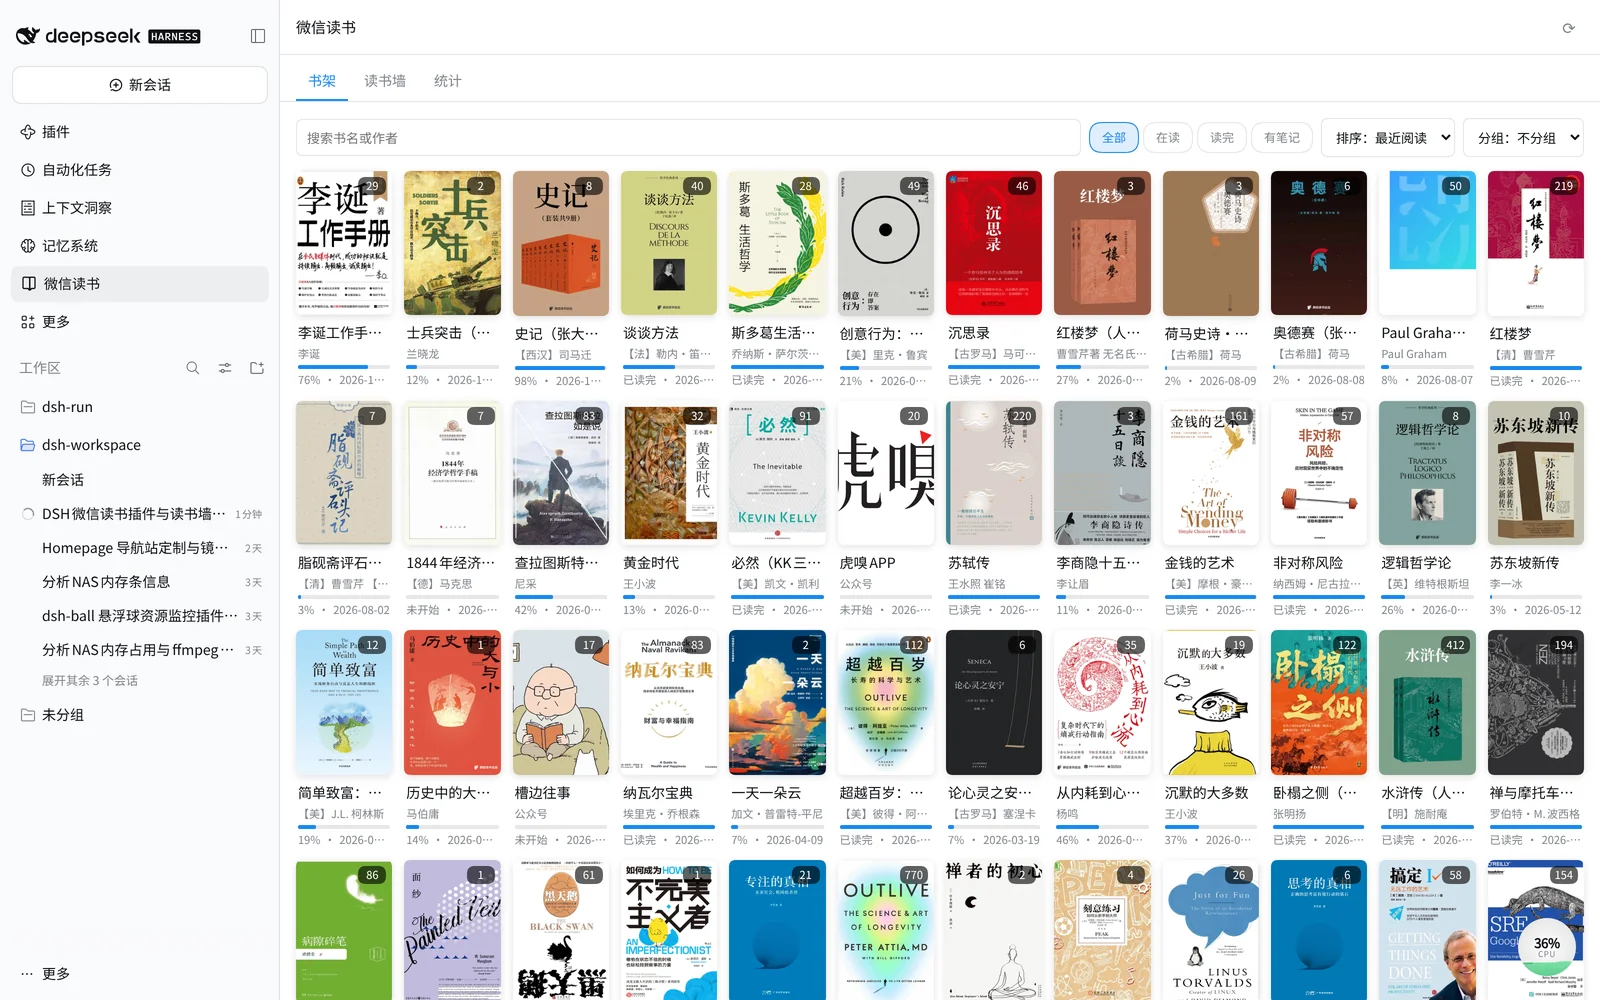
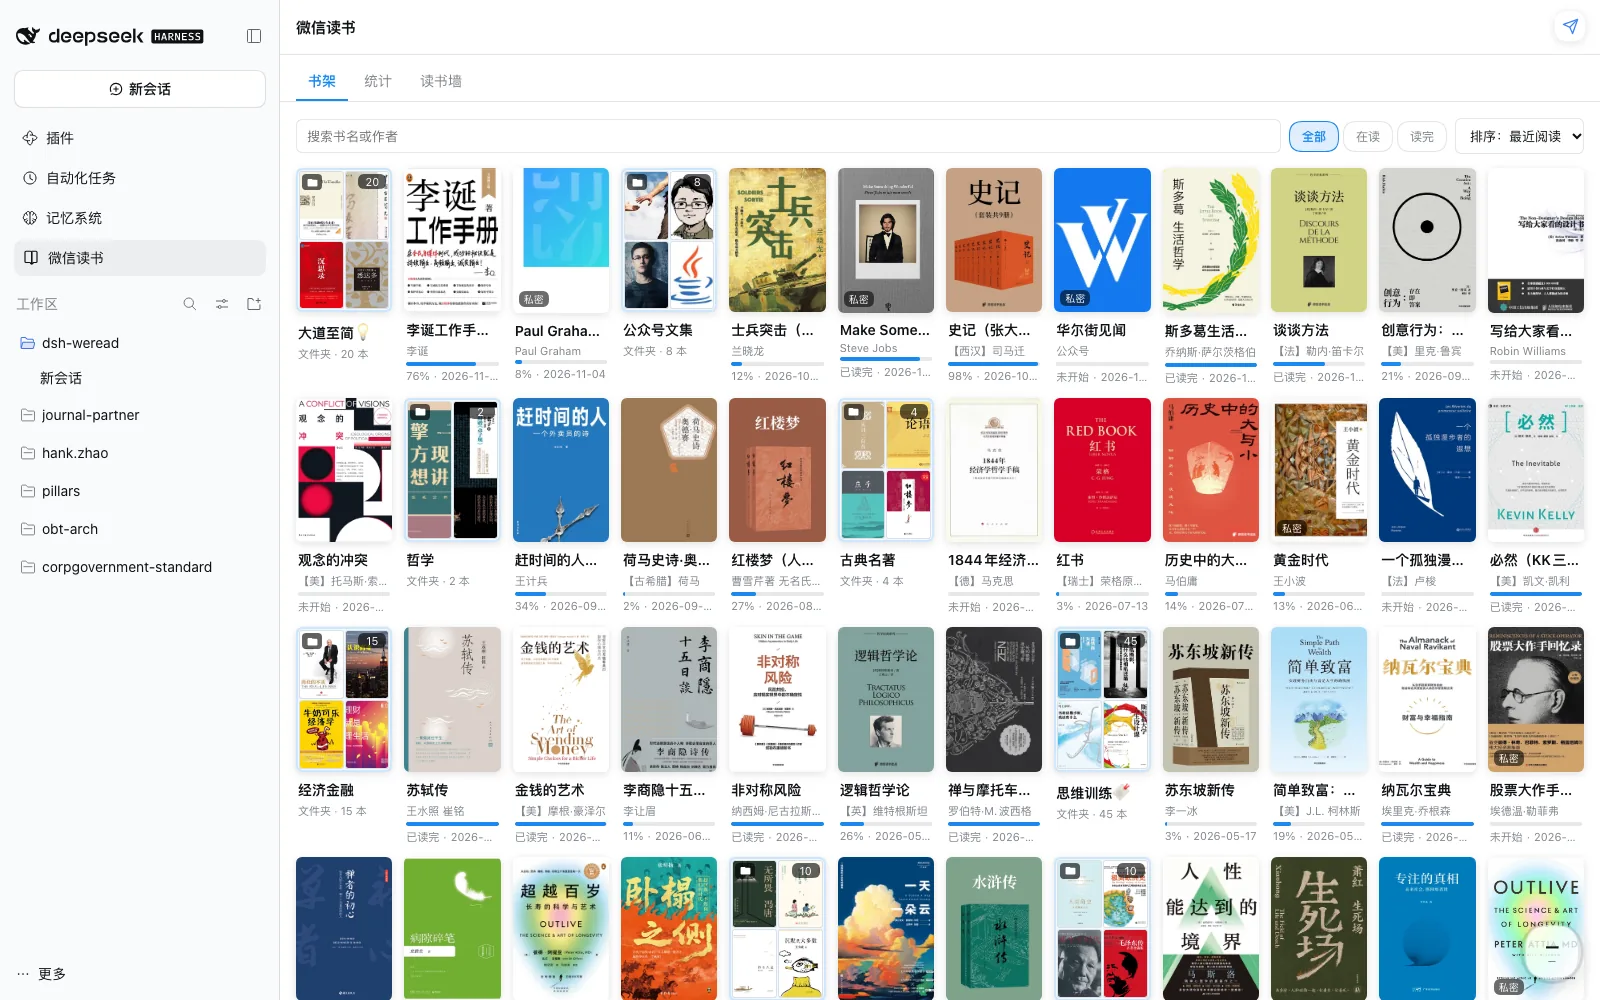
docs: 更新首页书架截图为书架模式
旧图是 0.1.0 的笔记模式书架，没有文件夹概念，与当前默认界面不符。

- 替换 docs/images/shelf.webp 为书架（书架模式）截图：文件夹与书混排、
  文件夹用内部封面拼成缩略图、数量角标、真实阅读进度
- README 截图说明同步更新；「按分类 / 阅读年份分组」标注为笔记模式，
  因为书架模式不提供分组控件

diff --git a/README.md b/README.md
@@ -20,7 +20,7 @@
 
 | | 功能 | 说明 |
 |---|---|---|
-| 📚 | **书架** | 封面网格；搜索、筛选、排序；**按分类 / 阅读年份分组**；真实阅读进度 |
+| 📚 | **书架** | 封面网格；搜索、筛选、排序；真实阅读进度；**按分类 / 阅读年份分组**（笔记模式） |
 | 🗂 | **书架双数据源** | 一键切换**微信读书书架接口**与**笔记接口**；书架模式下**文件夹与书混排**，文件夹用内部封面拼贴成缩略图，支持文件夹页、有声书（专辑） |
 | 🖼 | **年度书墙** | 按**月份**拼封面墙，一年一张海报；年份切换；点封面进详情 |
 | 📊 | **阅读统计** | 全年**日常热力图**（可切年份）、分类环形图、24 小时时段钟、偏爱作者/出版社、阅读最多、年度趋势 |
@@ -31,9 +31,9 @@
 
 <div align="center">
 
-**书架** — 封面网格 · 真实阅读进度 · 筛选 / 排序 / 分组
+**书架（书架模式）** — 文件夹与书混排 · 文件夹用内部封面拼成缩略图 · 数量角标 · 真实阅读进度 · 筛选 / 排序
 
-<img src="./docs/images/shelf.webp" alt="书架" width="86%">
+<img src="./docs/images/shelf.webp" alt="书架：文件夹与书混排" width="86%">
 
 **统计** — 全年热力图（可切年份）· 分类环形图 · 时段钟 · 偏好排行
 
